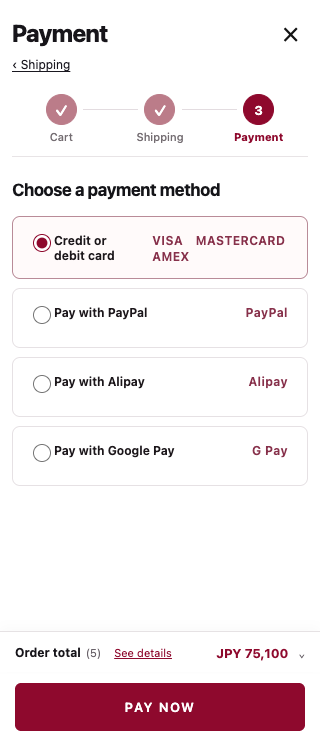
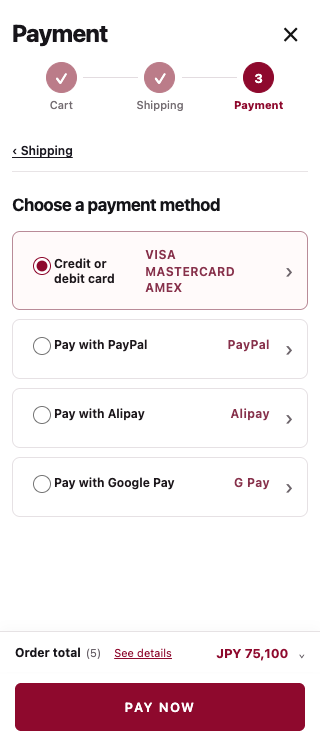
refine(checkout): match Owner Shipping and Payment drawer navigation and totals

diff --git a/theme/beyourlover-v3/assets/css/checkout-drawer.css b/theme/beyourlover-v3/assets/css/checkout-drawer.css
@@ -69,7 +69,7 @@ body.byl-checkout-drawer-mode .byl-checkout-heading h1{
 }
 body.byl-checkout-drawer-mode .byl-checkout-heading>span{display:none;}
 body.byl-checkout-drawer-mode .byl-checkout-drawer-back{
-  margin:0 0 14px;padding:2px 0;border:0;background:none;font:600 13px inherit;
+  margin:0 0 14px;padding:2px 0;border:0;background:none;font-size:13px;font-family:inherit;font-weight:600;line-height:1.45;
   color:#1a1820;text-decoration:underline;text-underline-offset:2px;cursor:pointer;
 }
 body.byl-checkout-drawer-mode .byl-checkout-track{
@@ -197,7 +197,7 @@ body.byl-checkout-drawer-mode .byl-summary-product{margin:8px 0 12px;gap:12px;gr
 body.byl-checkout-drawer-mode .byl-summary-product .byl-summary-image{width:52px;height:58px;border-radius:4px;}
 body.byl-checkout-drawer-mode .byl-summary-product strong{font-size:12px;}
 body.byl-checkout-drawer-mode .byl-summary-total{font-size:13px!important;color:#1d161a!important;}
-body.byl-checkout-drawer-mode .byl-checkout-action-bar{margin:auto 0 0!important;position:static!important;padding:0!important;border:0!important;background:none!important;box-shadow:none!important;}
+body.byl-checkout-drawer-mode .byl-checkout-action-bar{margin:12px 0 0!important;position:static!important;padding:0!important;border:0!important;background:none!important;box-shadow:none!important;}
 body.byl-checkout-drawer-mode .byl-checkout-next{
   background:var(--byl-drawer-wine)!important;min-height:52px;border-radius:6px!important;
   color:#fff!important;letter-spacing:.11em;text-transform:uppercase;font-size:13px!important;
@@ -316,4 +316,59 @@ body.byl-checkout-drawer-mode .byl-drawer-payment-total-details{
 }
 @media(max-width:760px){
   body.byl-checkout-drawer-mode .byl-drawer-payment-total{display:none!important;}
+}
+
+/* Owner visual precision: desktop summary heading + separate Edit, mobile
+   fixed order total only. Native Woo order review retains all real figures. */
+body.byl-checkout-drawer-mode .byl-drawer-summary-head {
+  display:flex;align-items:center;justify-content:space-between;gap:12px;
+}
+body.byl-checkout-drawer-mode .byl-drawer-summary-head .byl-summary-toggle {
+  width:auto!important;flex:1;min-width:0;
+}
+body.byl-checkout-drawer-mode .byl-drawer-summary-head .byl-summary-toggle strong {
+  text-transform:uppercase;letter-spacing:-.012em;font-size:14px!important;
+}
+body.byl-checkout-drawer-mode .byl-drawer-summary-head .byl-summary-toggle .byl-summary-total,
+body.byl-checkout-drawer-mode .byl-drawer-summary-head .byl-summary-toggle .byl-summary-chevron {
+  display:none!important;
+}
+body.byl-checkout-drawer-mode .byl-drawer-edit-cart {
+  flex:0 0 auto;border:0;background:none;padding:5px 0;color:#211b20;
+  font-size:12px;font-weight:600;text-decoration:underline;cursor:pointer;
+}
+body.byl-checkout-drawer-mode .byl-drawer-edit-cart:hover {color:var(--byl-drawer-wine);}
+body.byl-checkout-drawer-mode .byl-checkout-step[data-byl-step="payment"] .byl-step-hint {
+  display:none!important; /* no distracting synthetic gateway explainer */
+}
+@media(max-width:760px) {
+  body.byl-checkout-drawer-mode .byl-drawer-summary-head .byl-summary-toggle strong {
+    text-transform:none;letter-spacing:normal;font-size:12px!important;
+  }
+  body.byl-checkout-drawer-mode .byl-drawer-summary-head .byl-summary-toggle .byl-summary-total,
+  body.byl-checkout-drawer-mode .byl-drawer-summary-head .byl-summary-toggle .byl-summary-chevron{
+    display:inline!important;
+  }
+  body.byl-checkout-drawer-mode .byl-drawer-edit-cart {display:none!important;}
+}
+
+/* Owner PASS Payment: divider belongs AFTER "‹ Shipping", not above it.
+   Shipping uses "‹ Your Cart" BEFORE the progress indicators. */
+body.byl-checkout-drawer-mode .byl-checkout-track{border-bottom:0!important;}
+body.byl-checkout-drawer-mode [data-byl-drawer-step="payment"] .byl-checkout-drawer-back{
+  display:block;width:100%;text-align:left;border-bottom:1px solid var(--byl-drawer-line);
+  padding:5px 0 14px!important;margin:0 0 22px!important;text-decoration:underline;
+}
+body.byl-checkout-drawer-mode #payment .wc_payment_methods>li{position:relative;}
+body.byl-checkout-drawer-mode #payment .wc_payment_methods>li:after{
+  content:'›';position:absolute;top:50%;right:14px;transform:translateY(-50%);
+  pointer-events:none;color:#6f676d;font-size:20px;line-height:1;
+}
+body.byl-checkout-drawer-mode #payment .wc_payment_methods>li>label{
+  padding-right:10px;width:calc(100% - 38px);
+}
+@media(max-width:760px) {
+  body.byl-checkout-drawer-mode [data-byl-drawer-step="payment"] .byl-checkout-drawer-back{
+    margin:0 0 16px!important;padding:5px 0 12px!important;
+  }
 }

diff --git a/theme/beyourlover-v3/assets/js/checkout-drawer.js b/theme/beyourlover-v3/assets/js/checkout-drawer.js
@@ -52,6 +52,22 @@
   details.className = 'byl-drawer-see-details';
   details.textContent = 'See details';
   if (summaryToggle && summaryAmount) summaryToggle.insertBefore(details, summaryAmount);
+  // Desktop Owner PASS shows "YOUR CART (n)" on the left with one Edit action,
+  // not a second sticky total beside that heading. Preserve the native Woo
+  // summary toggle and totals; only regroup their existing presentation.
+  if (summaryToggle) {
+    const headerRow = document.createElement('div');
+    headerRow.className = 'byl-drawer-summary-head';
+    summaryToggle.parentNode.insertBefore(headerRow, summaryToggle);
+    headerRow.appendChild(summaryToggle);
+    const editCart = document.createElement('button');
+    editCart.type = 'button';
+    editCart.className = 'byl-drawer-edit-cart';
+    editCart.textContent = 'Edit';
+    editCart.setAttribute('aria-label', 'Edit your cart');
+    headerRow.appendChild(editCart);
+    editCart.addEventListener('click', () => exitDrawer());
+  }
   // Display-only echo of Woo computed summary total; no arithmetic.
   const paymentTotalAmount = checkout.querySelector('[data-byl-drawer-payment-total-amount]');
   const paymentTotalDetails = checkout.querySelector('[data-byl-drawer-payment-total-details]');
@@ -82,7 +98,7 @@
   back.className = 'byl-checkout-drawer-back';
   back.dataset.bylCheckoutDrawerBack = '';
   back.textContent = '‹ Your Cart';
-  heading.insertAdjacentElement('afterend', back);
+  heading.insertAdjacentElement('afterend', back); // Shipping: back precedes progress.
 
   function closingDestination() {
     return previousUrl || fallbackUrl;
@@ -120,6 +136,11 @@
     const title = heading.querySelector('[data-byl-checkout-heading]');
     if (title) title.textContent = payment ? 'Payment' : 'Shipping';
     back.textContent = payment ? '‹ Shipping' : '‹ Your Cart';
+    // Exact Owner Shipping/Payment image differences:
+    // Shipping: title -> Your Cart -> 3 icons;
+    // Payment: title -> 3 icons -> Shipping -> gateway list.
+    if (payment) track.insertAdjacentElement('afterend', back);
+    else heading.insertAdjacentElement('afterend', back);
     shell.dataset.bylDrawerStep = payment ? 'payment' : 'shipping';
     // Ensure the scrolling panel starts at the header after a phase change,
     // without scrolling the document or jumping to a different route.

diff --git a/scripts/fixtures/checkout-drawer-owner-visual.html b/scripts/fixtures/checkout-drawer-owner-visual.html
@@ -113,9 +113,23 @@ document.querySelector('[data-byl-checkout-heading]').textContent=step==='shippi
 document.querySelector('[data-byl-checkout-drawer-back]').textContent=step==='shipping'?'‹ Your Cart':'‹ Shipping';
 document.querySelectorAll('[data-byl-step]').forEach(el=>el.classList.toggle('is-active',el.dataset.bylStep===step));
 document.querySelectorAll('[data-byl-track]').forEach(el=>el.getAttribute('data-byl-track')===step?el.setAttribute('aria-current','step'):el.removeAttribute('aria-current'));
+const stageTrack=document.querySelector('.byl-checkout-track');
+const previewBack=document.querySelector('.byl-checkout-drawer-back');
+if(step==='payment')stageTrack.insertAdjacentElement('afterend',previewBack);
+else document.querySelector('.byl-checkout-heading').insertAdjacentElement('afterend',previewBack);
 document.querySelector('[data-byl-next]').textContent=step==='shipping'?'CONTINUE TO PAYMENT':'PAY NOW';
 const summary=document.querySelector('.byl-summary-card');
 const mobile=innerWidth<=760;summary.classList.toggle('is-open',!mobile);
+const previewSummaryToggle=document.querySelector('.byl-summary-toggle');
+const previewSummaryHeader=document.createElement('div');
+previewSummaryHeader.className='byl-drawer-summary-head';
+previewSummaryToggle.parentNode.insertBefore(previewSummaryHeader,previewSummaryToggle);
+previewSummaryHeader.appendChild(previewSummaryToggle);
+const previewEdit=document.createElement('button');
+previewEdit.className='byl-drawer-edit-cart';
+previewEdit.type='button';
+previewEdit.textContent='Edit';
+previewSummaryHeader.appendChild(previewEdit);
 const title=document.querySelector('.byl-summary-toggle strong');title.textContent=mobile?'Order total':'Your Cart';
 if(mobile){const d=document.createElement('span');d.textContent='See details';d.style.cssText='margin-left:8px;color:#8e092d;font-size:11px;text-decoration:underline';document.querySelector('.byl-summary-toggle').insertBefore(d,document.querySelector('.byl-summary-total'))}
 document.querySelector('[data-byl-summary-toggle]').addEventListener('click',()=>{summary.classList.toggle('is-open')});

diff --git a/theme/beyourlover-v3/woocommerce/checkout/form-checkout.php b/theme/beyourlover-v3/woocommerce/checkout/form-checkout.php
@@ -50,10 +50,12 @@ $cart = WC()->cart;
             <p class="byl-step-hint">Available payment methods are provided securely by WooCommerce and your chosen payment provider.</p>
             <div data-byl-notes-host></div>
             <div data-byl-terms-host></div>
+            <?php if (function_exists('byl_v3_checkout_drawer_enabled') && byl_v3_checkout_drawer_enabled()) : ?>
             <div class="byl-drawer-payment-total" data-byl-drawer-payment-total aria-label="Final order total">
               <div class="byl-drawer-payment-total-line"><strong>Order total</strong><strong data-byl-drawer-payment-total-amount></strong></div>
               <button type="button" class="byl-drawer-payment-total-details" data-byl-drawer-payment-total-details aria-controls="order_review">See details <span aria-hidden="true">⌄</span></button>
             </div>
+            <?php endif; ?>
           </div>
         </section>
         <div class="byl-checkout-action-bar"><p class="byl-checkout-error" data-byl-error role="alert" hidden></p><button type="button" class="byl-checkout-next" data-byl-next>Continue to Payment <span aria-hidden="true">→</span></button></div>

diff --git a/docs/checkout-drawer/OPTION-B-V1-OWNER-FIDELITY-ROADMAP-20261016.md b/docs/checkout-drawer/OPTION-B-V1-OWNER-FIDELITY-ROADMAP-20261016.md
@@ -22,6 +22,15 @@ Cart → Shipping → Payment ONLY. BYL original burgundy, black typography, Pin
 - The separate user-approved PR #119 three-step fields, phone-before-ZIP, email input without helper, optional apt/organization, native shipping rate selection are reused. No fake shipping price/SLA or provider logo.
 - Dev-only capability is checked by Woo checkout context, staging environment, dev.beyourlover.com host, and exact opt-in query. Order Pay/Thank You excluded. WWW gets no Drawer activation.
 
+## 2026-10-16 Owner screenshot discrepancy sweep (native code, no Dev rollout)
+Inspected original archived Owner PASS Shipping Mobile and composite Payment Mobile+Desktop assets, not generic reference images:
+- Payment back-link is **below** 3-step icon tracker and underlined with separator; Shipping "Your Cart" is **above** tracker. Prior local prototype had Payment back link above tracker; source and static DOM tests now enforce correct per-step placement.
+- Desktop has **YOUR CART (count)** plus a separate **Edit** action at the left summary header; hide its compact total at the top because native Woo order-total table already appears below. Mobile instead shows **Order total / See details / Woo total** in fixed footer above one CTA. Source updated to regroup the existing Woo toggle without duplicating or recalculating values.
+- PC Payment has **Order total / See details** card directly above **PAY NOW**; previous candidate pushed the CTA to bottom of 900px modal. CSS corrected to follow this card, with Playwright assertion.
+- Payment methods have a subtle trailing chevron; added CSS pseudo decoration rather than fabricating payment method availability or labels. Provider-specific cards and 3DS remain owned by Woo and need actual Dev validation.
+- The Owner Shipping graphic shows optional marketing offer, save-address choice, a Tax ID and tax/duties notice. All require matching server-side consent/customs/identity rules; these remain **unimplemented** in actual Woo, despite being present in the synthetic visual reference. No fake checkbox, tax claim, or tax ID input was inserted solely to match screenshot pixels.
+- The mock fixture is not real Woo DOM and does **not** prove pixel-perfect parity with the original image (which includes an iPhone bezel and synthetic values). The only valid final fidelity check is iPhone14/M320/M390/PC1440 actual Dev capture, side-by-side after separately approved Canary.
+
 ## Exactness gates — NOT all completed
 | Requirement | Source / local fixture | Actual Dev Owner PASS |
 |---|---|---|
